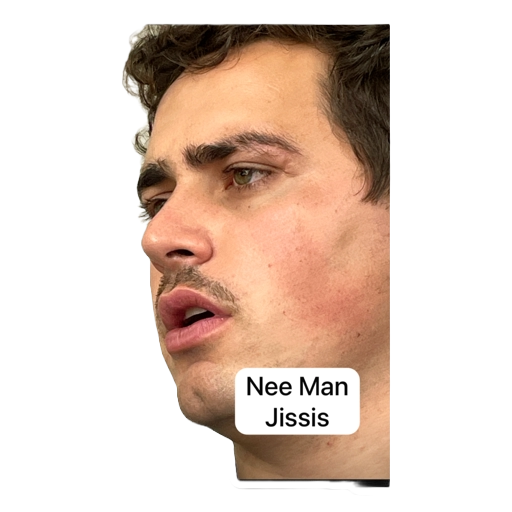
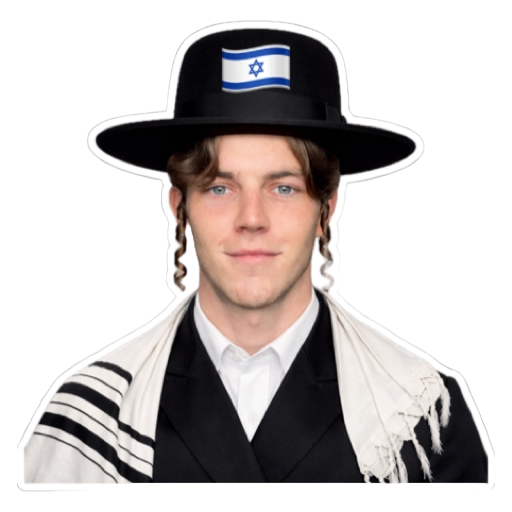
Fix sticker loading and include sticker assets

diff --git a/script.js b/script.js
@@ -876,7 +876,7 @@ function spawnSticker() {
       return;
     }
     animationStarted = true;
-    if (!stickersEnabled || !activeStickers.has(element)) {
+    if (!stickersEnabled || !activeStickers.has(flight)) {
       return;
     }
     const duration = 8000 + Math.random() * 10000;
